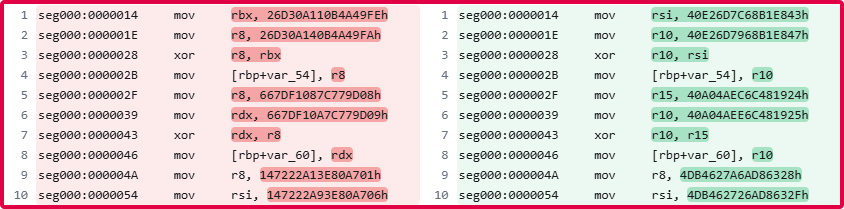
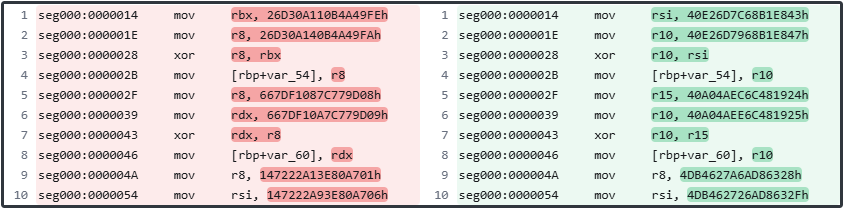
Updated documentation and added example screenshot of metamorphication.

Changed region(s): [[0.0, 0.0, 1.0, 1.0]]

diff --git a/README.md b/README.md
@@ -20,7 +20,7 @@
 <p align="center">
     <b>Metamorphic cross-compilation of C-code to Truly Position Independent Code (PIC).</b>
     <br/>
-    <sup>Built with ♥ by <a href="https://x.com/tijme">Tijme Gommers</a> – Buy me a coffee via <a href="https://www.paypal.me/tijmegommers">PayPal</a>.</sup>
+    <sup>Built with ♥ by <a href="https://www.linkedin.com/in/tijme/">Tijme Gommers</a> – Buy me a coffee via <a href="https://www.paypal.me/tijmegommers">PayPal</a>.</sup>
     <br/>
 </p>
 <p align="center">
@@ -42,22 +42,17 @@
 
 Dittobytes compiles your C-code to truly Position Independent Code (PIC) for Windows, MacOS, and Linux, and both AMD64 and ARM64. It features a [metamorphic engine](https://en.wikipedia.org/wiki/Metamorphic_code) that ensures each compilation produces unique, functional shellcode. It does *not* rely on the classic decrypt stubs often seen in e.g. polymorphic compilations, and additionally it does *not* require reflective loaders such as Donut or sRDI as it compiles your C-code directly to PIC. A subsequent advantage is that the output size of the shellcode is extremely small (almost no overhead), and remains very simple.
 
-<details>
-    <summary>Technical details (click here)</summary>
-    <hr>
-    <p>
-        Dittobytes uses a custom LLVM build with two transpilers. Any compilation of your C-code using Dittobytes is done with this LLVM build. The first transpiler uses a modern <a href="https://llvm.org/docs/WritingAnLLVMNewPMPass.html">LLVM Function Pass</a> (on intermediate level) to inline constant variables otherwise located in e.g. <code>.rodata</code> segments (this aids the development of Position Independent Code). The second one is the machine transpiler that uses a legacy <a href="https://llvm.org/docs/WritingAnLLVMPass.html#the-machinefunctionpass-class">LLVM MachineFunction Pass</a> to perform the metamorphic transformations (e.g. instruction substitutions), introducing randomness in the assembly code during compilation. This includes, but is not limited to:
-        <ul>
-            <li>Immediate substitution (e.g., <code>mov [reg], imm</code> → <code>mov [reg], encoded; xor [reg], key</code>).</li>
-            <li>Instruction substitution (e.g., <code>mov [mem], imm</code> → <code>push imm; pop [mem]</code>).</li>
-        </ul>
-    </p>
-    <hr>
-</details>
+<p align="center">
+    <img src="https://gist.githubusercontent.com/tijme/8a1e77e82316df8b41d62e8cdaca2ddb/raw/8fc6ef90df9bbff70c6fedf73c63ff6b07d449a1/dittobytes-example-diff.png" alt="Metamorphication example with Dittobytes" />
+    <br>
+    <sup>Figure: Metamorphication example by Dittobytes</sup>
+</p>
 
-Dittobytes ships with a minimal C-code file (`./beacon/main.c`) that can cross-compile to all supported platforms and architectures. Additionally, it ships with loaders (for each platform and architecture) that can be used to load and test your compiled shellcode.
+<p>
+    Dittobytes uses a custom LLVM build with two transpilers. Any compilation of your C-code using Dittobytes is done with this LLVM build. The first transpiler uses a modern <a href="https://llvm.org/docs/WritingAnLLVMNewPMPass.html">LLVM Function Pass</a> (on intermediate level) to inline constant variables otherwise located in e.g. <code>.rodata</code> segments (this aids the development of Position Independent Code). The second one is the machine transpiler that uses a legacy <a href="https://llvm.org/docs/WritingAnLLVMPass.html#the-machinefunctionpass-class">LLVM MachineFunction Pass</a> to perform the metamorphic transformations (e.g. instruction substitutions), introducing randomness in the assembly code during compilation. Check the <a href="#roadmap">roadmap</a> for all implemented transformations.
+</p>
 
-![Dittobytes Overview](https://gist.githubusercontent.com/tijme/fe693d86e15cd015764bc6ea85225a66/raw/07037ee07c69d5425a2839150ccac15c8b96ce1f/overview.svg)
+There is a pre-shippped minimal C-code file (`./beacon/main.c`) that can cross-compile to all supported platforms and architectures. Additionally, it ships with loaders (for each platform and architecture) that can be used to load and test your compiled shellcode.
 
 # Requirements
 
